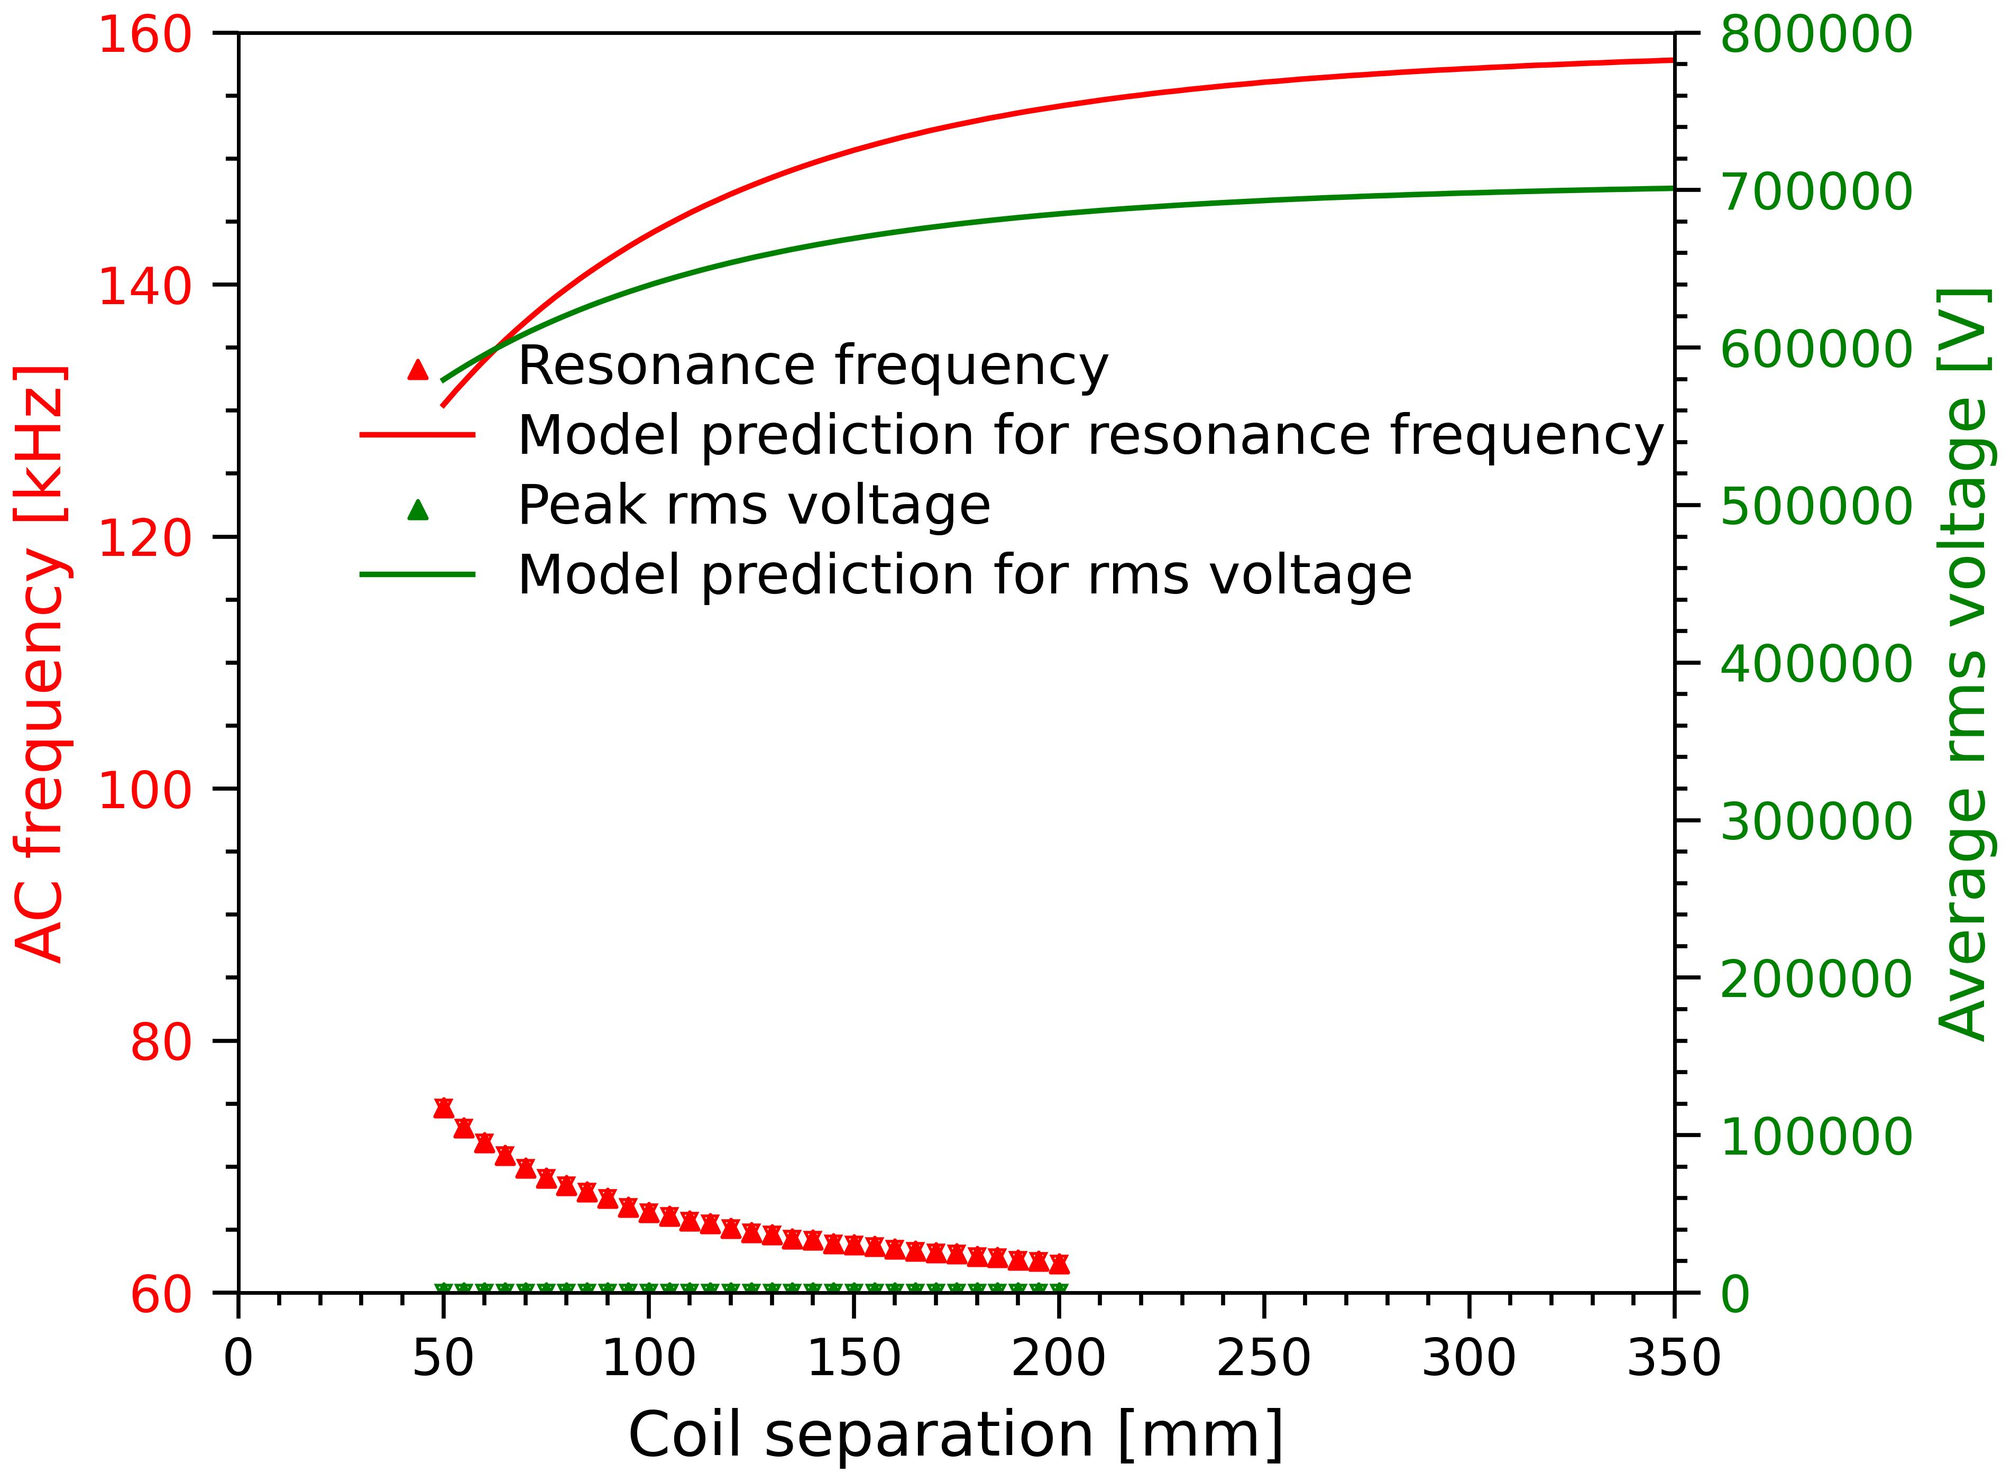
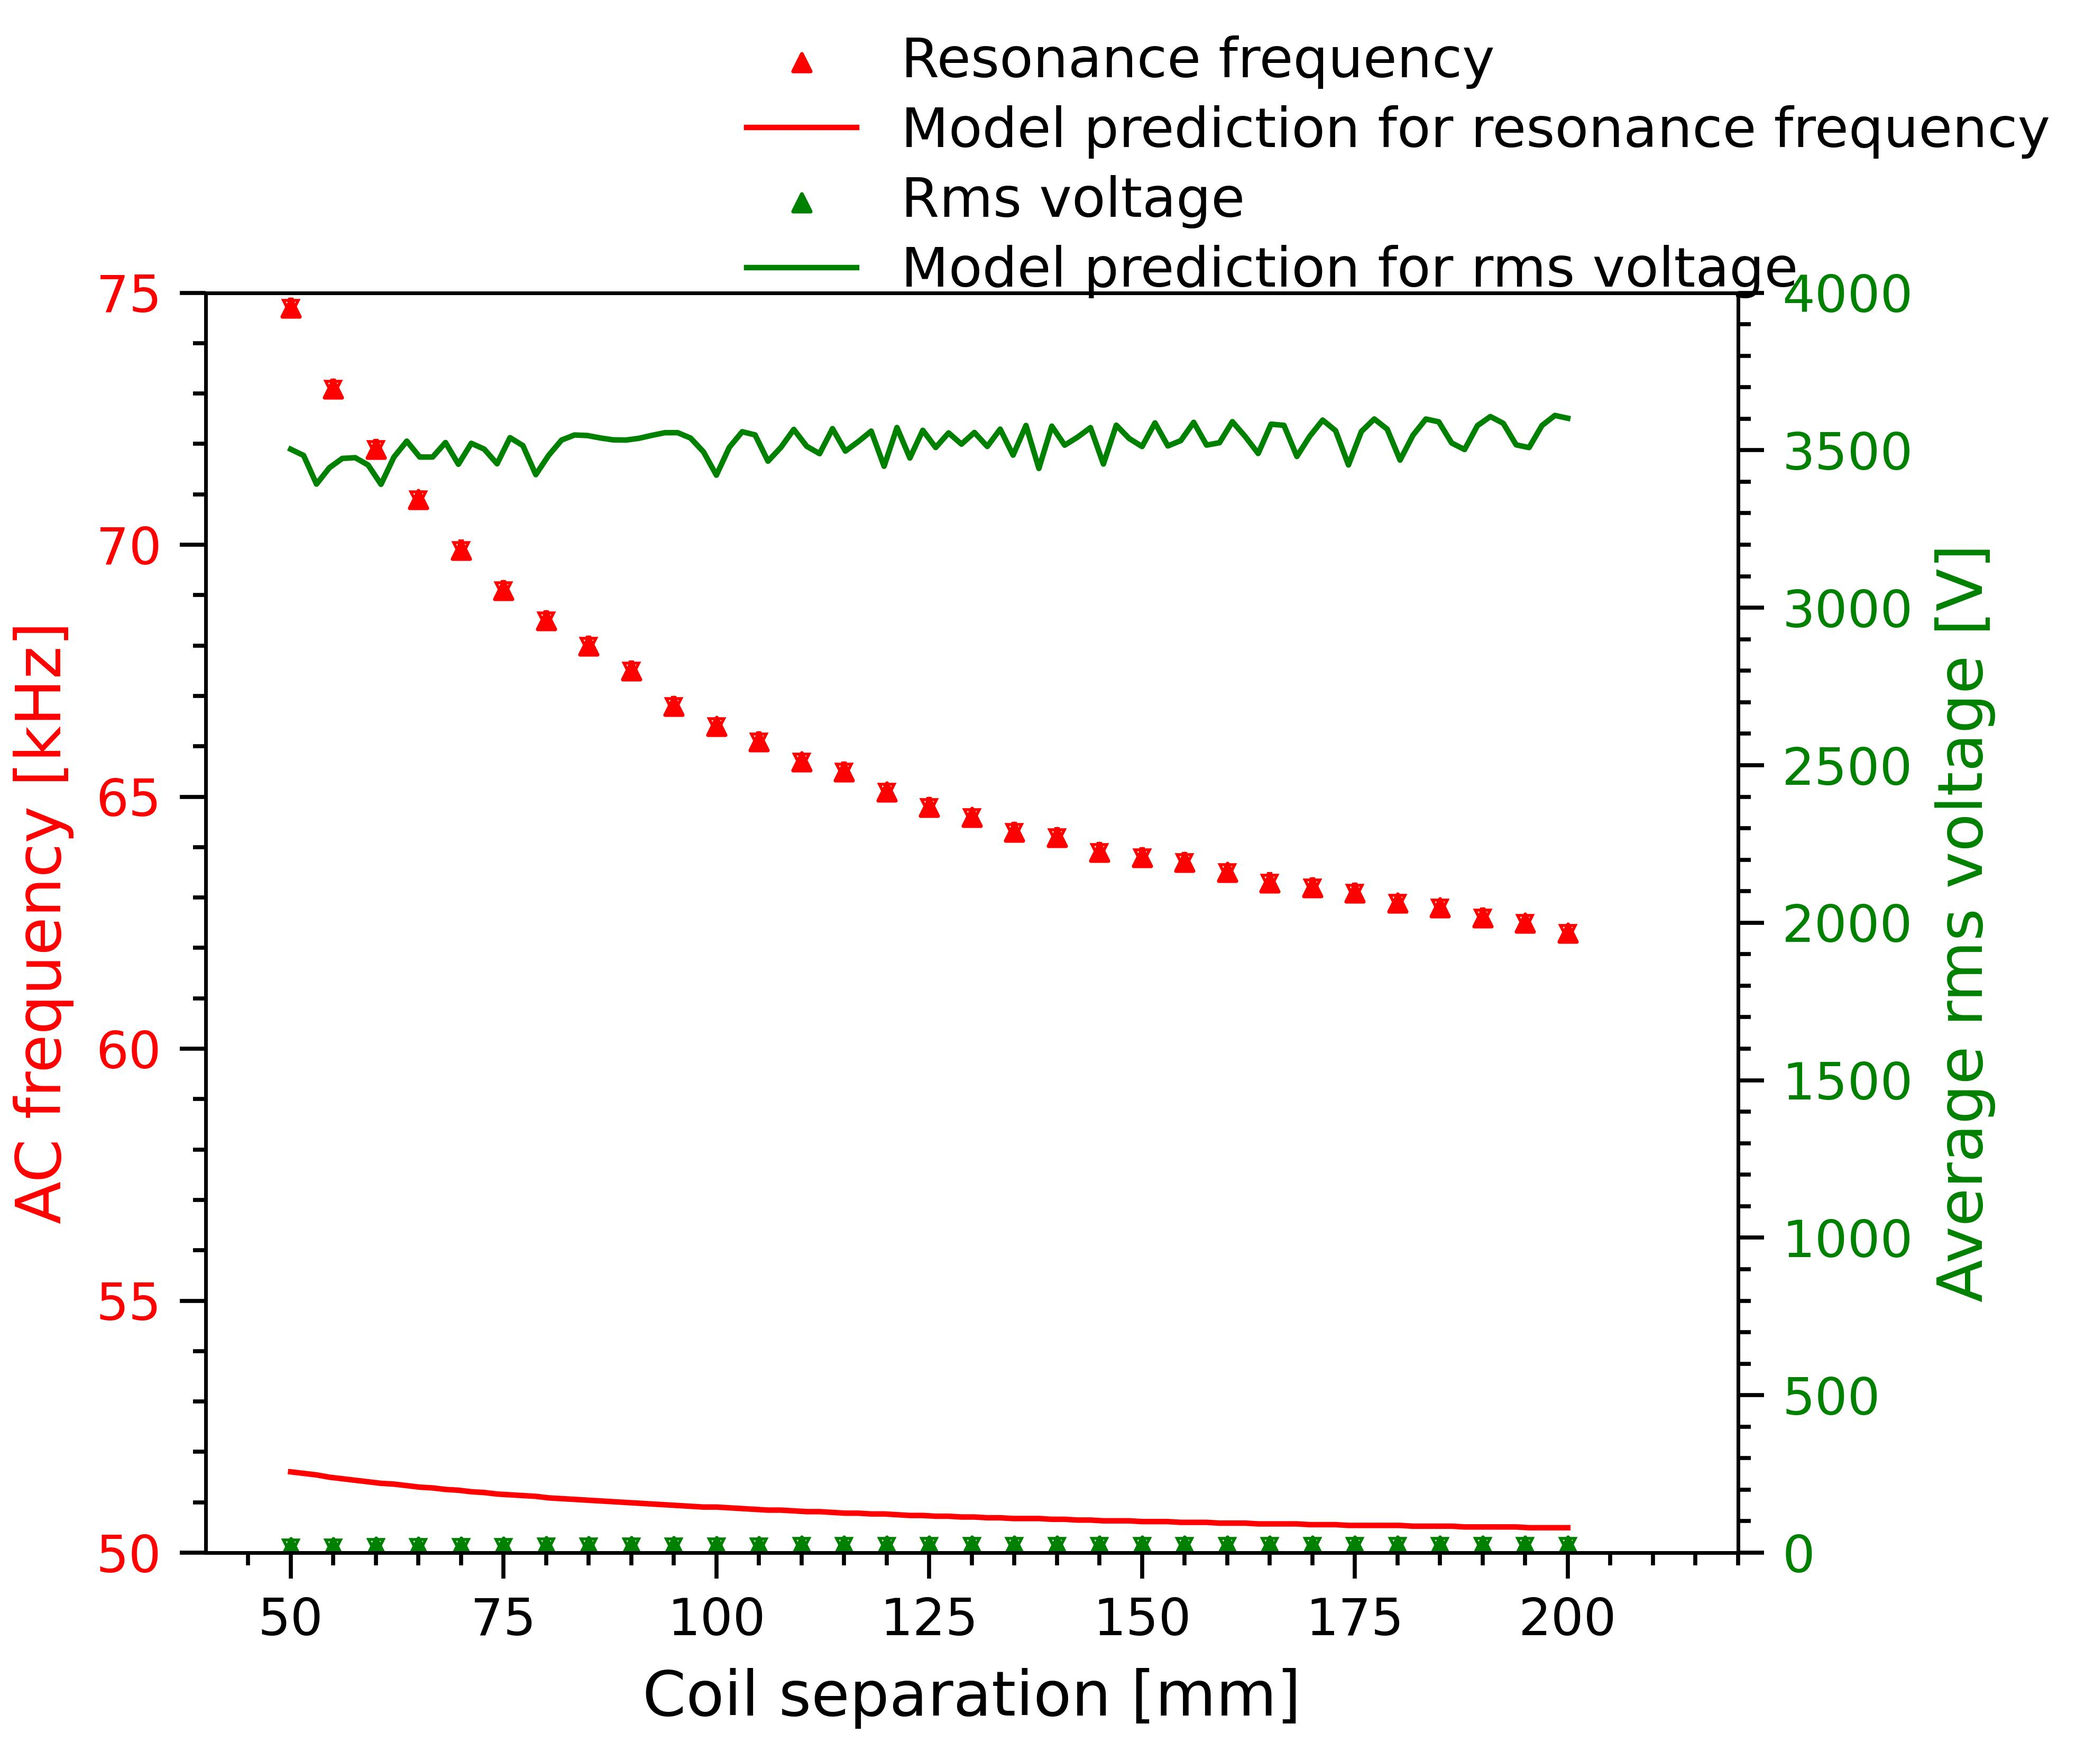
Generated final images and made final tweaks

diff --git a/main.py b/main.py
@@ -52,8 +52,8 @@ ydis = ydis * np.sqrt(2)
 # Plotting the data vs the predicted values for a distance of 5 cm
 xqr = np.linspace(xdata[0], xdata[-1], 10000)
 plt.plot(xqr, functions.voltvar(xqr, 0.1, 0.1, 57, 7, 1e-10), 'r-', label='Prediction')
-plt.errorbar(xdata, ydata, xerr=xerr, yerr=yerr, c='c')
-plt.scatter(xdata, ydata, label='Measurements', c='c', s=15, marker="^")
+plt.errorbar(xdata, ydata, xerr=xerr, yerr=yerr, c='g')
+plt.scatter(xdata, ydata, label='Measurements', c='g', s=15, marker="^")
 # plt.plot(xdata, functions.voltvar(xdata, 0.0409, 0.086, 57, 7, 1.106e-10), label='Fit but with extracted RLC values')
 plt.xlabel('ω [rad/s]')
 plt.ylabel('Peak voltage [V]')
@@ -64,9 +64,10 @@ plt.show()
 
 # Plotting the data vs the predicted values for a distance of 35 cm
 newxqr = np.linspace(newx[0], newx[-1], 10000)
-plt.plot(xqr, functions.voltdis(xqr, *functions.letters(0.1, 0.1, 57, 7, 1e-10), functions.mutual(0.35)), 'r-', label='Prediction')
-plt.errorbar(newx, newy, xerr=newxerror, yerr=newyerror, c='c')
-plt.scatter(newx, newy, label='Measurements', c='c', s=15, marker="^")
+plt.plot(newxqr, functions.voltdis(newxqr, *functions.letters(0.1, 0.1, 57, 7, 1e-10), functions.mutual(0.35)), 'r-',
+         label='Prediction')
+plt.errorbar(newx, newy, xerr=newxerror, yerr=newyerror, c='g')
+plt.scatter(newx, newy, label='Measurements', c='g', s=15, marker="^")
 # plt.plot(xdata, functions.voltvar(xdata, 0.0409, 0.086, 57, 7, 1.106e-10), label='Fit but with extracted RLC values')
 plt.xlabel('ω [rad/s]')
 plt.ylabel('Peak voltage [V]')
@@ -80,32 +81,30 @@ norespopt, norespcov = curve_fit(functions.voltnores, xdata, ydata, p0=[0.1, 0.1
 norespopt = abs(norespopt)  # making sure the values are positive
 print(
     f"with L1 = {norespopt[0]}±{functions.roundup(np.sqrt(np.diag(norespcov))[0])} H, L2 = {norespopt[1]}±{functions.roundup(np.sqrt(np.diag(norespcov))[1])} H, C1 = {norespopt[2]}±{functions.roundup(np.sqrt(np.diag(norespcov))[2])} F")
-plt.plot(xqr, functions.voltnores(xqr, *norespopt), 'r-', label='Fit with L1 = 0.022±0.004 H, L2 = 0.0913±0.0003 '
-                                                                'H, C = 1.4±0.2e-10 F')
-plt.errorbar(xdata, ydata, xerr=xerr, yerr=yerr, c='c')
-plt.scatter(xdata, ydata, label='Measurements', c='c', s=15, marker="^")
+plt.plot(xqr, functions.voltnores(xqr, *norespopt), 'r-', label='Fit')
+plt.errorbar(xdata, ydata, xerr=xerr, yerr=yerr, c='g')
+plt.scatter(xdata, ydata, label='Measurements', c='g', s=15, marker="^")
 plt.xlabel('ω [rad/s]')
 plt.ylabel('Peak voltage [V]')
 plt.legend(loc="upper right", borderaxespad=0.5)
-# plt.title("Fitting the values with the correct resistances for a distance of 5 cm")
+plt.title("Fit parameters: \n L1 = 0.022±0.004 H, L2 = 0.0913±0.0003 H, \n C1 = 1.4±0.2e-10 F")
 plt.savefig("Fitting the values with the correct resistances for a distance of 5 cm.jpg", dpi=500)
 plt.show()
-'''
+
 # Fitting the data and plotting with the correct resistance for 35 cm
 norespopt, norespcov = curve_fit(functions.voltnores35, newx, newy, p0=[0.1, 0.1, 1e-10], maxfev=500000)
 norespopt = abs(norespopt)  # making sure the values are positive
 print(
     f"with L1 = {norespopt[0]}±{functions.roundup(np.sqrt(np.diag(norespcov))[0])} H, L2 = {norespopt[1]}±{functions.roundup(np.sqrt(np.diag(norespcov))[1])} H, C1 = {norespopt[2]}±{functions.roundup(np.sqrt(np.diag(norespcov))[2])} F")
-plt.plot(newx, functions.voltnores35(newx, *norespopt), 'r-',
-         label='Fit with L1 = 0±10000 H, L2 = 0±400 H, C1 = 0±8e-6')
-plt.errorbar(newx, newy, xerr=newxerror, yerr=newyerror, c='c')
-plt.scatter(newx, newy, label='Measurements', c='c', s=15, marker="^")
+plt.plot(newxqr, functions.voltnores35(newxqr, *norespopt), 'r-', label='Fit')
+plt.errorbar(newx, newy, xerr=newxerror, yerr=newyerror, c='g')
+plt.scatter(newx, newy, label='Measurements', c='g', s=15, marker="^")
 plt.xlabel('ω [rad/s]')
-plt.ylabel('Peak 0.1, 0.1, 57, 7, 1e-10 [V]')
+plt.ylabel('Peak voltage [V]')
 plt.legend(loc="upper right", borderaxespad=0.5)
-# plt.title("Fitting the values with the correct resistances for a distance of 35 cm")
+plt.title("Fit parameters: \n L1 = 0±10000 H, L2 = 0±400 H, \n C1 = 0±8e-6")
 plt.savefig("Fitting the values with the correct resistances for a distance of 35 cm.jpg", dpi=500)
-plt.show()'''
+plt.show()
 
 # Fitting the data for all values for 5 cm
 print(functions.M)
@@ -113,18 +112,17 @@ popt, pcov = curve_fit(functions.voltvar, xdata, ydata, p0=[2.3, 0.1, 57, 7, 1e-
 popt = abs(popt)  # making sure the values are positive
 print(
     f"Full fit at 5 cm: L1 = {popt[0]}±{functions.roundup(np.sqrt(np.diag(pcov))[0])} H, L2 = {popt[1]}±{functions.roundup(np.sqrt(np.diag(pcov))[1])} H, R1 = {popt[2]}±{functions.roundup(np.sqrt(np.diag(pcov))[2])} Ω, R2 = {popt[3]}±{functions.roundup(np.sqrt(np.diag(pcov))[3])} Ω, C1 = {popt[4]}±{functions.roundup(np.sqrt(np.diag(pcov))[4])} F")
-plt.plot(xqr, functions.voltvar(xqr, *popt), 'r-',
-         label='Fit with L1 = 0.0403±0.0002 H, L2 = 0.08715±0.00002 H, R1 = 1067±3 Ω, R2 = 1034±5 Ω, '
-               'C1 = 1.128±0.005e-10 F')
-plt.errorbar(xdata, ydata, xerr=xerr, yerr=yerr, c='c')
-plt.scatter(xdata, ydata, label='Measurements', c='c', s=15, marker="^")
+plt.plot(xqr, functions.voltvar(xqr, *popt), 'r-', label='Fit' )
+plt.errorbar(xdata, ydata, xerr=xerr, yerr=yerr, c='g')
+plt.scatter(xdata, ydata, label='Measurements', c='g', s=15, marker="^")
 plt.xlabel('ω [rad/s]')
 plt.ylabel('Peak voltage [V]')
 plt.legend(loc="upper right", borderaxespad=0.5)
-# plt.title("Fitting the values for a distance of 5 cm")
+plt.title("Fit parameters: \n L1 = 0.0403±0.0002 H, L2 = 0.08715±0.00002 H, \n R1 = 1067±3 Ω, R2 = 1034±5 Ω, "
+          "\n C1 = 1.128±0.005e-10 F")
 plt.savefig("Fitting the values for a distance of 5 cm.jpg", dpi=500)
 plt.show()
-a = [0.1,0.1,57,7,1e-10]
+a = popt
 # Fitting the data for all values for 35 cm
 functions.M = functions.mutual(0.35)
 print(functions.M)
@@ -133,20 +131,25 @@ popt = abs(popt)  # making sure the values are positive
 print(
     f"Full fit at 35 cm: L1 = {popt[0]}±{functions.roundup(np.sqrt(np.diag(pcov))[0])} H, L2 = {popt[1]}±{functions.roundup(np.sqrt(np.diag(pcov))[1])} H, R1 = {popt[2]}±{functions.roundup(np.sqrt(np.diag(pcov))[2])} Ω, R2 = {popt[3]}±{functions.roundup(np.sqrt(np.diag(pcov))[3])} Ω, C1 = {popt[4]}±{functions.roundup(np.sqrt(np.diag(pcov))[4])} F")
 functions.M = functions.mutual(0.35)
-plt.plot(newxqr, functions.voltvar(newxqr, *popt), 'r-', label='Fit with ')
-plt.errorbar(newx, newy, xerr=newxerror, yerr=newyerror, c='c')
-plt.scatter(newx, newy, label='Measurements', c='c', s=15, marker="^")
+plt.plot(newxqr, functions.voltvar(newxqr, *popt), 'r-', label='Fit')
+plt.errorbar(newx, newy, xerr=newxerror, yerr=newyerror, c='g')
+plt.scatter(newx, newy, label='Measurements', c='g', s=15, marker="^")
 plt.xlabel('ω [rad/s]')
 plt.ylabel('Peak voltage [V]')
 plt.legend(loc="upper right", borderaxespad=0.5)
-# plt.title("Fitting the values for a distance of 35 cm")
+plt.title("Fit parameters: \n L1 = 0.055±0.002 H, L2 = 0.06435±0.00005 H, \n R1 = 940±20 Ω, R2 = 910± 20 Ω, "
+          "\n C1 = 1.23±0.03e-10 F")
 plt.savefig("Fitting the values for a distance of 35 cm.jpg", dpi=500)
 plt.show()
 
-p, = plt.plot(xqr, functions.volt(xqr, *a), 'r-')
+p, = plt.plot(xqr, functions.voltdis(xqr, *functions.letters(*a), functions.mutual(0.05)), 'r-')
+plt.xlabel("Angular frequency [arbritrary units]")
+plt.ylabel("Voltage [Arbitraty units]")
 plt.ylim(0, 100)
-axslider = plt.axes([0.1, 0, 0.8, 0.05])
-slider = Slider(ax=axslider, valmin=5, valmax=35, valinit=5, label='Distance (cm)')
+
+
+# axslider = plt.axes([0.1, 0, 0.8, 0.05])
+# slider = Slider(ax=axslider, valmin=5, valmax=35, valinit=5, label='Distance (cm)')
 
 
 def value_update(val):
@@ -154,7 +157,7 @@ def value_update(val):
     p.set_ydata(functions.voltdis(xqr, *functions.letters(*a), M))
 
 
-slider.on_changed(value_update)
+# slider.on_changed(value_update)
 plt.show()
 
 """popt1, pcov1 = curve_fit(functions.v1dis, xdis, ydis, p0=[5, 0.1, 60, 7, 1e-10], bounds=(0, 70), maxfev=5000)
@@ -164,7 +167,7 @@ print(
 
 plt.plot(xdis, ydis, c='c', label='data')
 q, = plt.plot(xdis, functions.v1dis(xdis, *popt1), 'r-', label='Fit over distance with ')
-plt.plot(xdis, functions.v1dis(xdis, 4, 0.1, 57, 7, 1e-10), 'g-', label='Interesting parameters pizda ma-tii de sci-py ')
+plt.plot(xdis, functions.v1dis(xdis, 4, 0.1, 57, 7, 1e-10), 'g-', label='My own choosing of parameters')
 
 
 # bxslider = plt.axes([0.2, 0.1, 0.65, 0.05])
@@ -184,21 +187,20 @@ plt.ylabel('First peak voltage [V]')
 plt.legend()
 plt.show()"""
 
-popt1, pcov1 = curve_fit(functions.f1dis, xfr, yfr, p0=[0.04, 0.087, 1067, 1034, 1.128e-10], maxfev=50000)
+'''popt1, pcov1 = curve_fit(functions.f1dis, xfr, yfr, p0=[0.04, 0.087, 1067, 1034, 1.128e-10], maxfev=50000)
 errs = np.sqrt(np.diag(abs(pcov1)))
-errs = [1, 1, 1, 1, 1]
 print(
     f"Full fit frequency vs length: L1 = {popt1[0]}±{functions.roundup(errs[0])} H, L2 = {popt1[1]}±{functions.roundup(errs[1])} H, R1 = {popt1[2]}±{functions.roundup(errs[2])} Ω, R2 = {popt1[3]}±{functions.roundup(errs[3])} Ω, C1 = {popt1[4]}±{functions.roundup(errs[4])} F")
 plt.plot(xfr, yfr, c='c', label='data')
 plt.plot(xfr, functions.f1dis(xfr, *popt1), 'r-', label='Fit over distance with ')
 plt.plot(xfr, functions.f1dis(xfr, 0.1, 0.1, 57, 7, 1e-10), 'g-',
-         label='Interesting parameters pizda ma-tii de sci-py ')
+         label='Parameters of my choosing')
 plt.xlabel('Distance [cm]')
 plt.ylabel('First peak angular frequency [rad/s]')
 plt.legend()
-plt.show()
+plt.show()'''
 
-res = 100
+res = 100  # the resolution of the line used for the fit
 dist = np.linspace(50, 350, res)
 dist1 = np.linspace(nrv_d12[0], nrv_d12[-1], res)
 dist2 = np.linspace(bcv_d12[0], bcv_d12[-1], res)
@@ -209,7 +211,8 @@ functions.double_plot(nrv_d13, nrf_d13, nrv13, nrf13, nrv_d13_err, nrf_d13_err, 
 
 functions.double_plot(bcv_d13, bcf_d13, bcv13, bcf13, bcv_d13_err, bcf_d13_err, bcv13_err, bcf13_err, dist,
                       functions.f1disres(dist / 10, 0.1, 0.1, 57, 1000, 1e-10) / (2000 * np.pi), dist,
-                      functions.v1disres(dist / 10, 0.1, 0.1, 57, 1000, 1e-10) / np.sqrt(2), "first, merged", "resistor")
+                      functions.v1disres(dist / 10, 0.1, 0.1, 57, 1000, 1e-10) / np.sqrt(2), "first, merged",
+                      "resistor")
 
 functions.double_plot(nrv_d12, nrf_d12, nrv2, nrf2, nrv_d12_err, nrf_d12_err, nrv2_err, nrf2_err, dist1,
                       functions.f2dis(dist1 / 10, 0.1, 0.1, 57, 7, 1e-10) / (2000 * np.pi), dist1,

diff --git a/functions.py b/functions.py
@@ -238,7 +238,7 @@ def double_plot(x1, x2, y1, y2, x1err, x2err, y1err, y2err, xfmodel, yfmodel, xv
 
     plt.xticks(fontsize=14)
     plt.xlabel("Coil separation [mm]", fontsize=17)
-    plt.title("Coil separation v " + title + " peak voltage and resonance frequency, " + resistor, fontsize=15)
+    # plt.title("Coil separation v " + title + " peak voltage and resonance frequency, " + resistor, fontsize=15)
 
     ax1 = plt.gca()
     plt.scatter(x2, y2, c='r', label="Resonance frequency", s=23, marker="^")
@@ -248,14 +248,14 @@ def double_plot(x1, x2, y1, y2, x1err, x2err, y1err, y2err, xfmodel, yfmodel, xv
     plt.yticks(fontsize=14, color='r')
 
     ax2 = ax1.twinx()
-    plt.scatter(x1, y1, c='g', label="Peak rms voltage", s=23, marker="^")
+    plt.scatter(x1, y1, c='g', label="Rms voltage", s=23, marker="^")
     plt.errorbar(x1, y1, xerr=x1err, yerr=y1err, c='g')
     plt.plot(xvmodel, yvmodel, 'g-', label="Model prediction for rms voltage")
     plt.ylabel("Average rms voltage [V]", fontsize=17, color='g')
     plt.yticks(fontsize=14, color='g')
 
-    fig.legend(loc="upper right", bbox_to_anchor=(0.99, 0.75), bbox_transform=ax1.transAxes, fontsize=15)
+    fig.legend(loc="upper right", bbox_to_anchor=(1.2, 1.2), bbox_transform=ax1.transAxes, fontsize=15)
     plt.tight_layout()
-    # plt.savefig("Coil separation v " + title + " peak voltage and resonance frequency, " + resistor + ".jpg", dpi=500)
+    plt.savefig("Coil separation v " + title + " peak voltage and resonance frequency, " + resistor + ".jpg", dpi=500)
     plt.show()
 

diff --git a/README.md b/README.md
@@ -1,10 +1,3 @@
-# Physics Lab 2
+# Physics lab 2 Wireless Power transmission experiment
 
-Basically what the title sounds like, trying to get an optimized fit and then use it to predict how values change.
-
-In order to create
-
-We get a local maximum with p0 = [0.8, 1, 5.48, 3.69047095e+13, 1e20]
-
-We can write the differential equation in the form 
-![img](http://www.sciweavers.org/upload/Tex2Img_1654167900/render.png) which we can get the particular solution to as the solution to the attached homogenous equation goes to zero as time goes to infinity.
+For information of what the code does read the lab report. (inser link)
